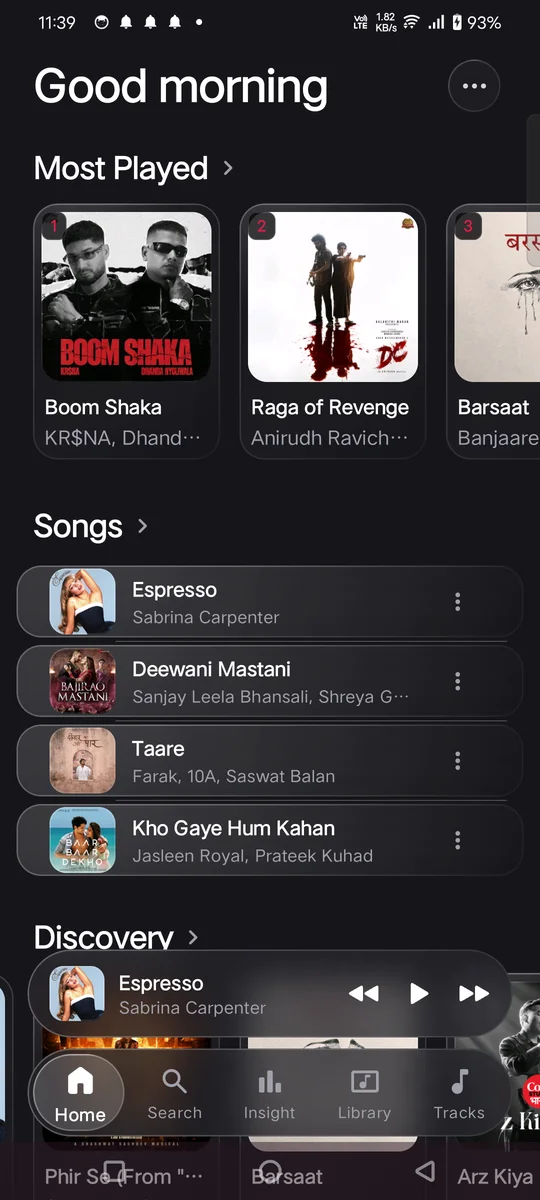
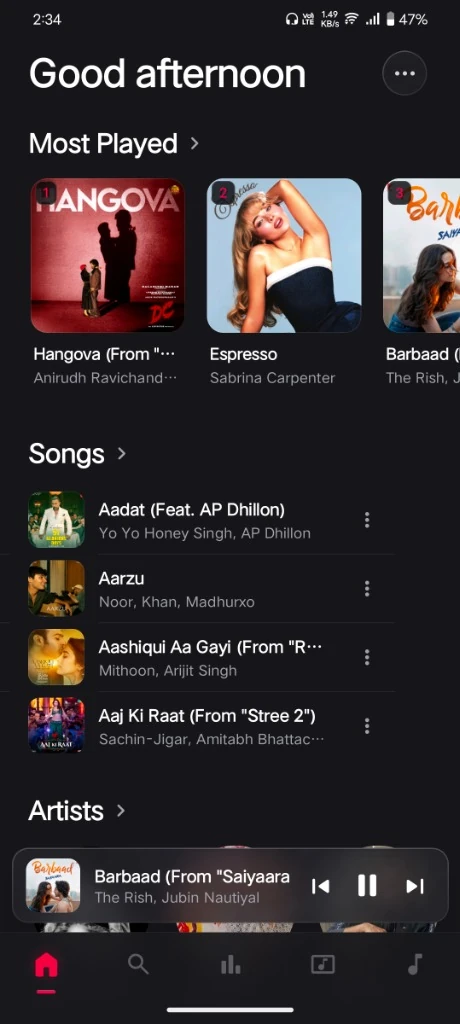
docs: update interface preview with latest app screenshots

diff --git a/README.md b/README.md
@@ -39,10 +39,10 @@ Pre-compiled production binaries are available below:
 
 <div align="center">
 
-| Home Dashboard | Track Library | Now Playing | Synced Lyrics |
-| :---: | :---: | :---: | :---: |
-| <img src="docs/screenshots/mobile_home.webp" width="220" alt="Home Dashboard" /> | <img src="docs/screenshots/mobile_library.webp" width="220" alt="Track Library" /> | <img src="docs/screenshots/mobile_player.webp" width="220" alt="Now Playing Player" /> | <img src="docs/screenshots/mobile_lyrics.webp" width="220" alt="Synced Lyrics" /> |
-| *Personalized mix & recent tracks* | *Instant search & $O(N)$ dedup* | *Dynamic theme & audio controls* | *Karaoke sync & tap-to-seek* |
+| Home Dashboard | Track Library | Now Playing | Synced Lyrics | Listening Insights |
+| :---: | :---: | :---: | :---: | :---: |
+| <img src="docs/screenshots/mobile_home.webp" width="180" alt="Home Dashboard" /> | <img src="docs/screenshots/mobile_library.webp" width="180" alt="Track Library" /> | <img src="docs/screenshots/mobile_player.webp" width="180" alt="Now Playing Player" /> | <img src="docs/screenshots/mobile_lyrics.webp" width="180" alt="Synced Lyrics" /> | <img src="docs/screenshots/mobile_insights.webp" width="180" alt="Listening Insights" /> |
+| *Personalized mix & recent tracks* | *Smart collections & local folders* | *Hi-Res Lossless & dynamic theme* | *Real-time karaoke & tap-to-seek* | *7-day history & playback stats* |
 
 </div>
 
